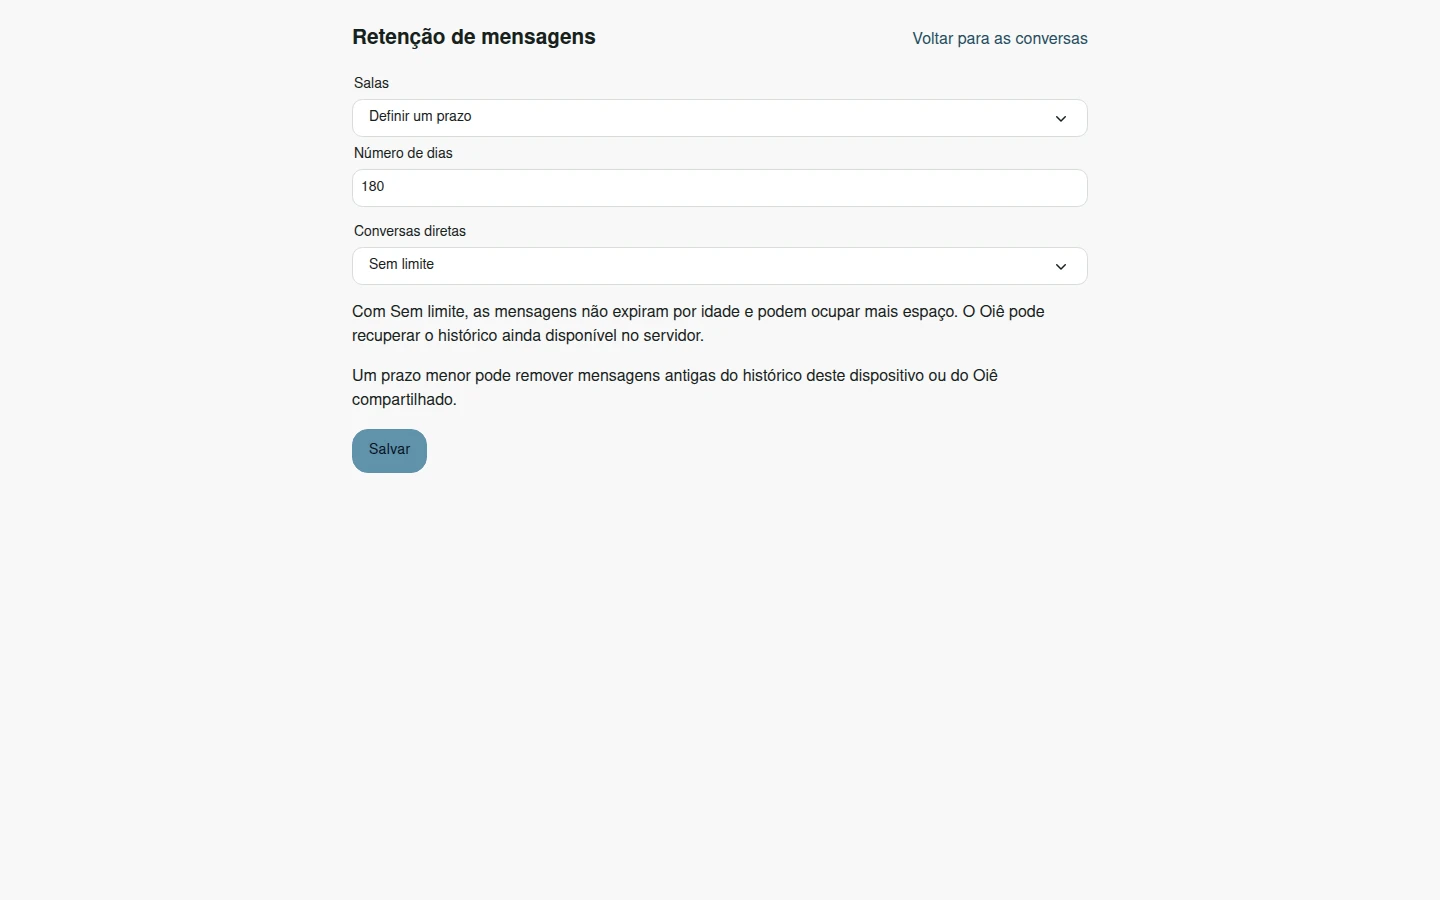
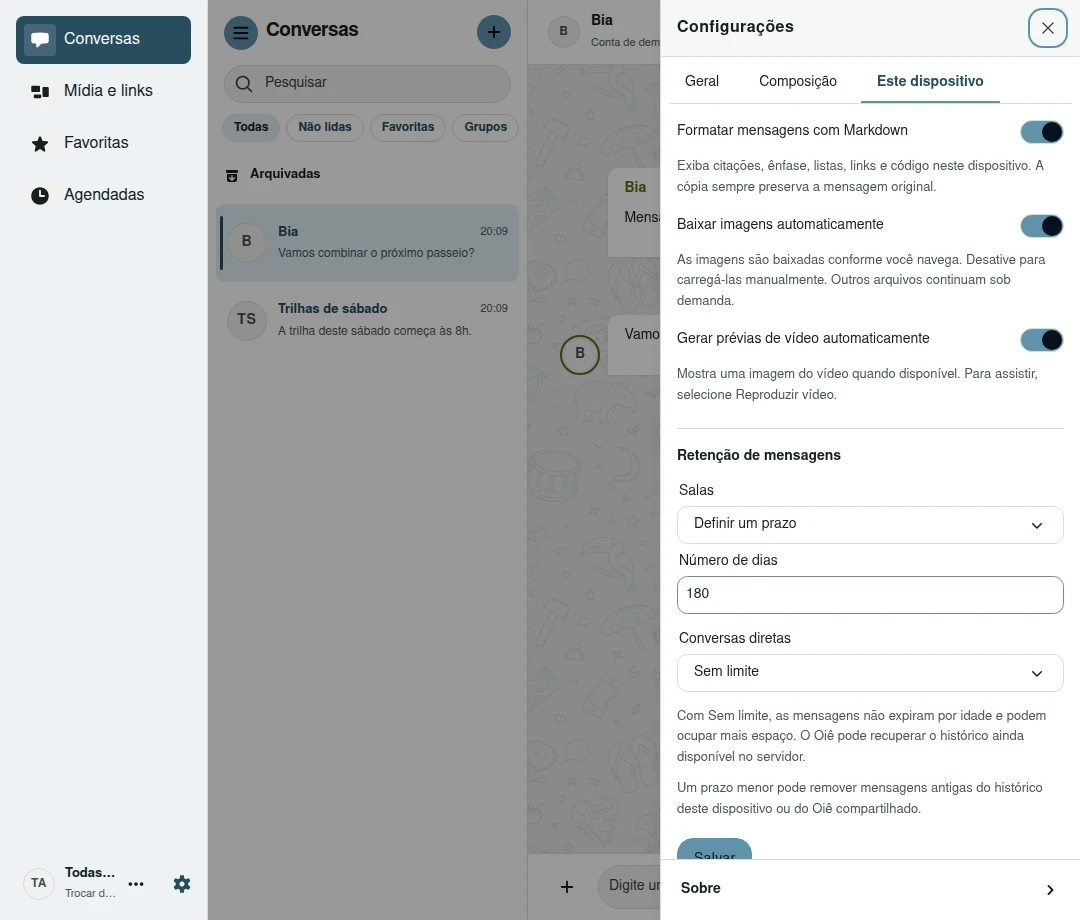
Show message retention in the Oiê drawers

diff --git a/content/docs/manual/index.md b/content/docs/manual/index.md
@@ -48,7 +48,7 @@ Dentro de uma sala, abra **Mais opções** e selecione **Pesquisar mensagens**. 
 
 Disponível em compilações posteriores à v0.0.1-rc.12.
 
-Em **Configurações → Geral → Retenção de mensagens**, escolha os prazos padrão para **Salas** e **Conversas diretas**. Para mudar o prazo só de uma conversa, abra **Detalhes da conversa → Retenção de mensagens**. Use **Usar o padrão** para voltar ao prazo global.
+Em **Configurações → Este dispositivo → Retenção de mensagens**, escolha os prazos padrão para **Salas** e **Conversas diretas**. Para mudar o prazo só de uma conversa, abra **Detalhes da conversa → Retenção de mensagens**. Use **Usar o padrão** para voltar ao prazo global.
 
 Por padrão, as salas têm prazo de **180 dias** e as conversas diretas usam **Sem limite**. O Oiê preserva as **100 mensagens mais recentes já guardadas de cada sala** e todas as mensagens favoritadas. Um prazo menor pode remover outras mensagens antigas do Oiê. Em um envio agendado, a contagem começa quando a mensagem é enviada.
 
